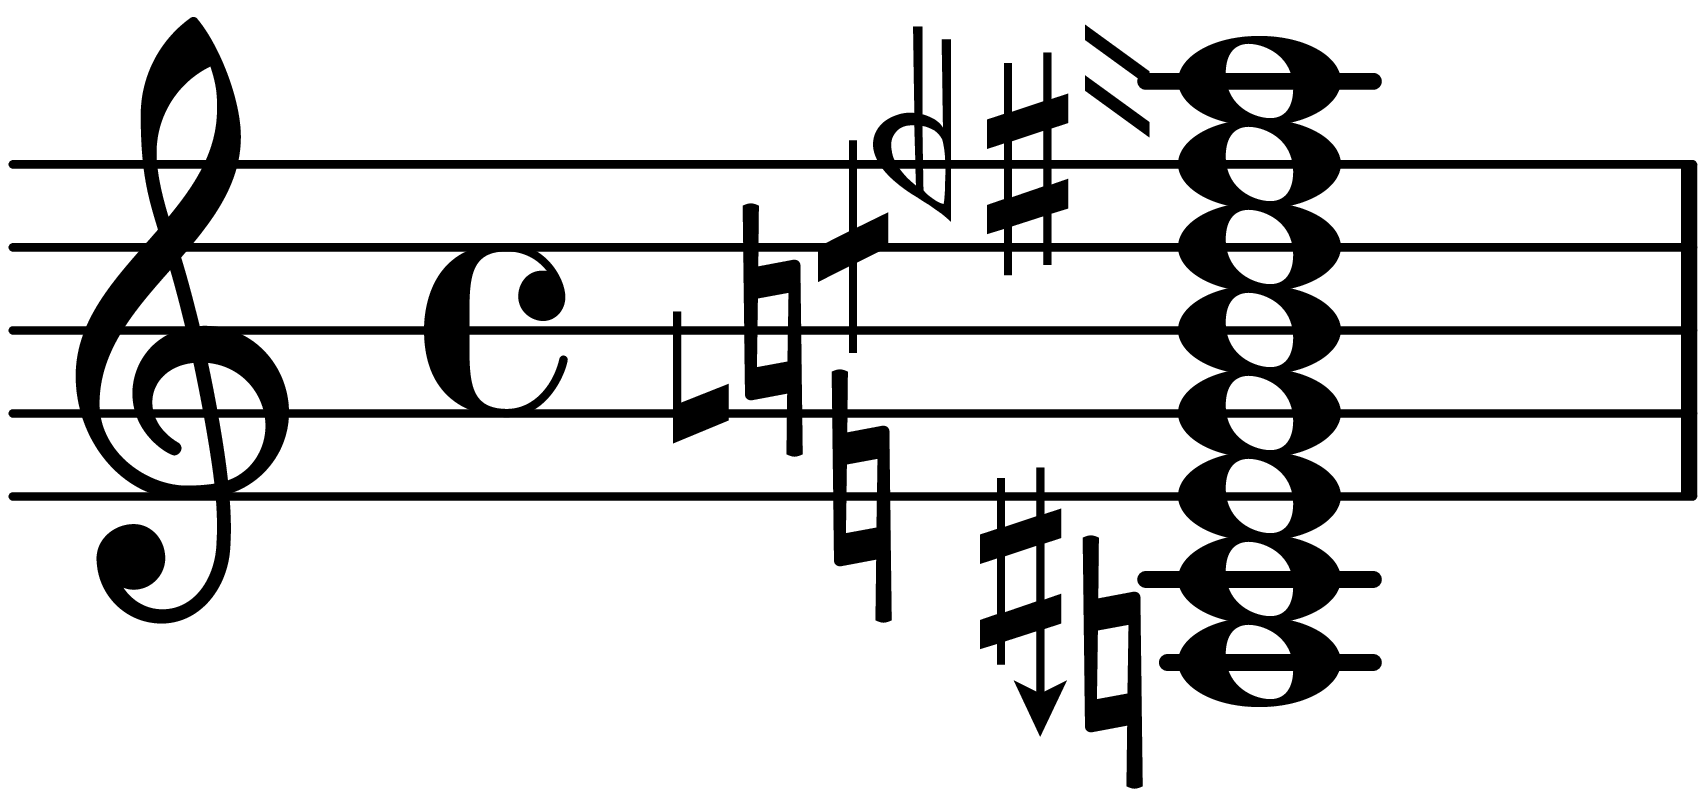
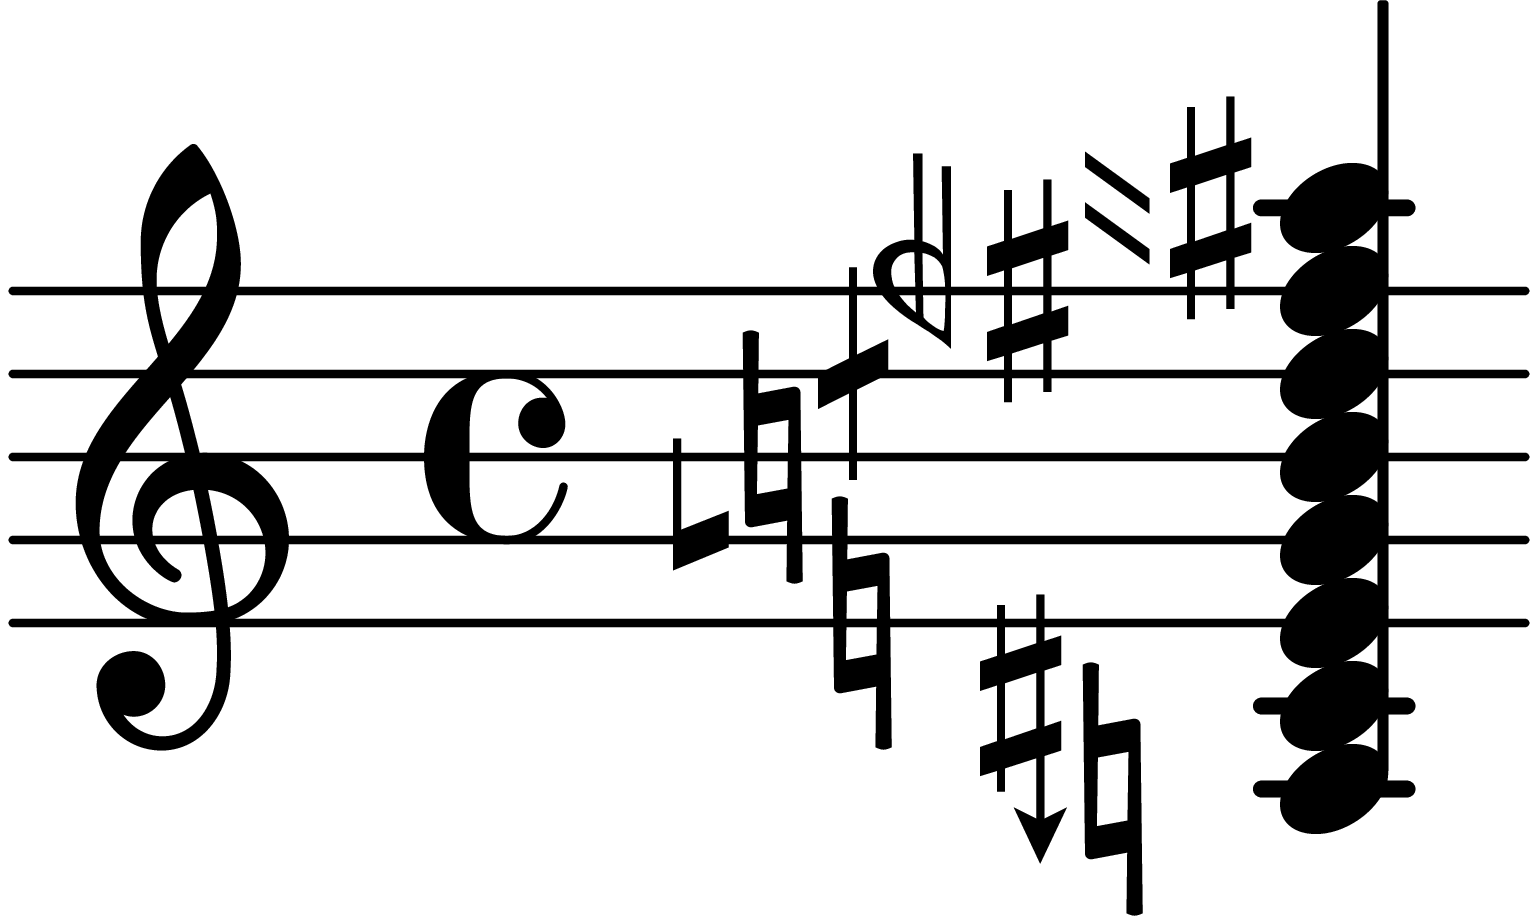
FIX: Updating README

Changed region(s): [[0.0, 0.0, 1.0, 1.0]]

diff --git a/README.md b/README.md
@@ -171,7 +171,7 @@ Chords can be input in exactly the same way:
 \HejiScore {
   \HejiStaff {
     \relative a {
-      <a \ji "3u5" c e \ji "u7" g b \ji "11" d \ji "3 u13" f \ji "u17" a>
+      <a \ji "3u5" c e \ji "u7" g b \ji "11" d \ji "3 u13" f \ji "3u17" a>
     }
   }
 }
@@ -182,12 +182,16 @@ Chords can be input in exactly the same way:
 Natural accidentals can be omitted by setting the `print-naturals` option. Unfortunately, this requires specifying factors for all notes in the file, even if they are empty: 
 
 ```lilypond
+\version "2.24.1"
+
+\include "heji.ily"
+
 print-naturals = ##f
 
 \HejiScore {
   \HejiStaff {
     \relative a {
-      <\ji "" a \ji "3u5" c \ji "" e \ji "u7" g \ji "" b \ji "11" d \ji "3 u13" f \ji "u17" a>
+      <\ji "" a \ji "3u5" c \ji "" e \ji "u7" g \ji "" b \ji "11" d \ji "3 u13" f \ji "3u17" a>
     }
   }
 }
@@ -195,7 +199,50 @@ print-naturals = ##f
 
 <img src="media/8.png" height="200">
 
-This restriction, as well as an ability to have more fine-grained control over natural accidental printing, will be addressed in the future (it's doable, but not quite as simple as it seems).
+Another option is to use sharpened/flattened note names for the notes with HEJI accidentals and set the accidental style manually, e.g.:
+
+```lilypond
+\version "2.24.1"
+
+\include "heji.ily"
+
+\HejiScore {
+  \HejiStaff {
+    \relative a {
+      \accidentalStyle forget
+      <a \ji "3u5" cis e \ji "u7" ges b \ji "11" dis \ji "3 u13" fis \ji "3u17" ais>1
+    }
+  }
+}
+```
+
+<img src="media/9.png" height="200">
+
+It's also possible to selectively omit accidentals:
+
+```lilypond
+\version "2.24.1"
+
+\include "heji-ly/src/heji.ily"
+
+render-midi = ##t
+
+\HejiScore {
+  \HejiStaff {
+    \relative a {
+      \once\omit Accidental <a \ji "3u5" cis e \ji "u7" ges b \ji "11" dis \ji "3 u13" fis \ji "3u17" ais>
+    }
+  }
+}
+```
+
+<img src="media/10.png" height="200">
+
+Note that these are not fully equivalent as evidenced by the difference in output.
+
+The reason why this works is because the only thing that matters with regards to calculating the accidental and the tuning in the playback are the factors, the note name is irrelevant beyond specifying where the note should be placed in the staff.
+
+Please open an issue if these restrictions seem unreasonable (lifting them to doable but not a high priority at the moment).
 
 ### Playback
 Playback is only supported up to 16 simulatenous notes due to a limitation of MIDI. In order to support playback each note needs to be in its own channel and MIDI unfortunately only supports 16.
@@ -210,15 +257,13 @@ render-midi = ##t
     \set Staff.midiInstrument = "clarinet"
 
     \relative a {
-      <a \ji "3u5" c e \ji "u7" g b \ji "11" d \ji "3 u13" f \ji "u17" a>1
+      <a \ji "3u5" c e \ji "u7" g b \ji "11" d \ji "3 u13" f \ji "3u17" a>1
     }
   }
 }
 ```
 
-
 https://github.com/BridgeTheMasterBuilder/heji-ly/assets/71600489/899a95ab-adb3-432d-8c1c-b6d81aa0de74
-
 
 ## Options
 
